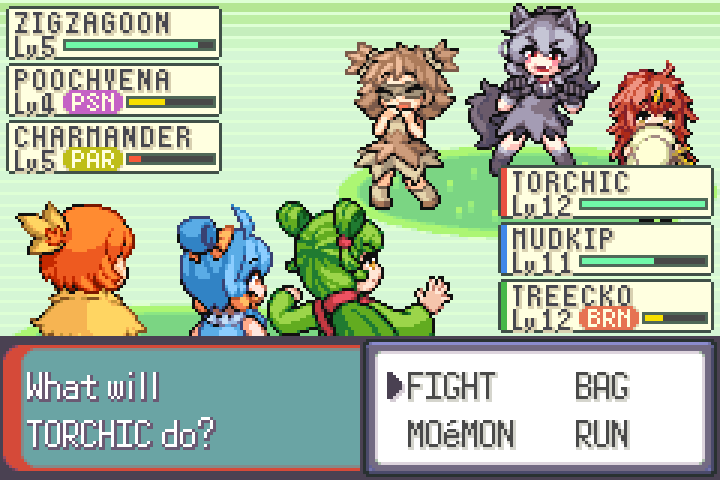
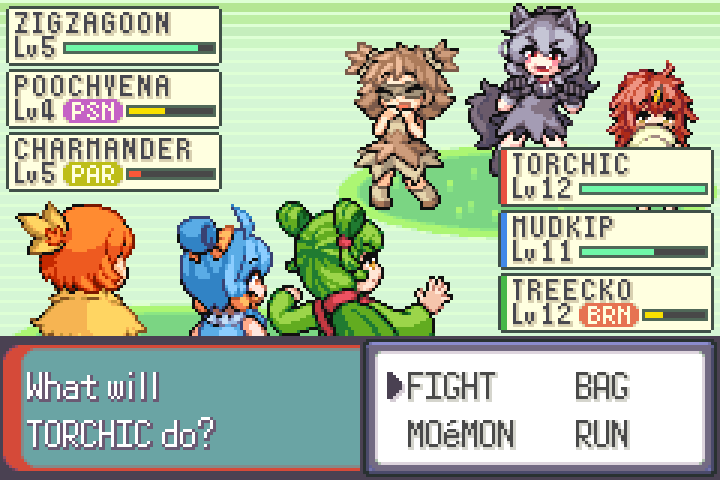
Triples mock-up: 20 px cards so the level line clears the border
Claude-Session: https://claude.ai/code/session_01HBBsSVYwrcMkPE2LsYgTSR

Changed region(s): [[0.6722, 0.2812, 1.0, 0.7188], [0.0, 0.0625, 0.3056, 0.4062]]

diff --git a/docs/TRIPLES_DECISIONS.md b/docs/TRIPLES_DECISIONS.md
@@ -37,9 +37,9 @@ answers agreed with the project owner (October 2026). They override the plan whe
 ## Presentation
 - Six sprites at full size, overlapping like Black/White triples (mock-up "A"): no scaling.
   Foes at about (132,38) (178,30) (218,42), players at (30,82) (76,88) (120,84); the center one is drawn first.
-- Compact 72x18 cards in the healthbox colors. Row 1: the full name (10 letters fit). Row 2: the level
+- Compact 72x20 cards (8-row text lines with 1 px clearance) in the healthbox colors. Row 1: the full name (10 letters fit). Row 2: the level
   (always shown), the status badge when there is one, then the HP bar. Foes stacked top-left from (2,2),
-  the team stacked right from (166,55), 19 px apart; a colored strip on the left of a player card shows its
+  the team stacked right from (166,49), 21 px apart; a colored strip on the left of a player card shows its
   owner. Exact HP lives in the R team glance and the target screen.
 
 ## Process
